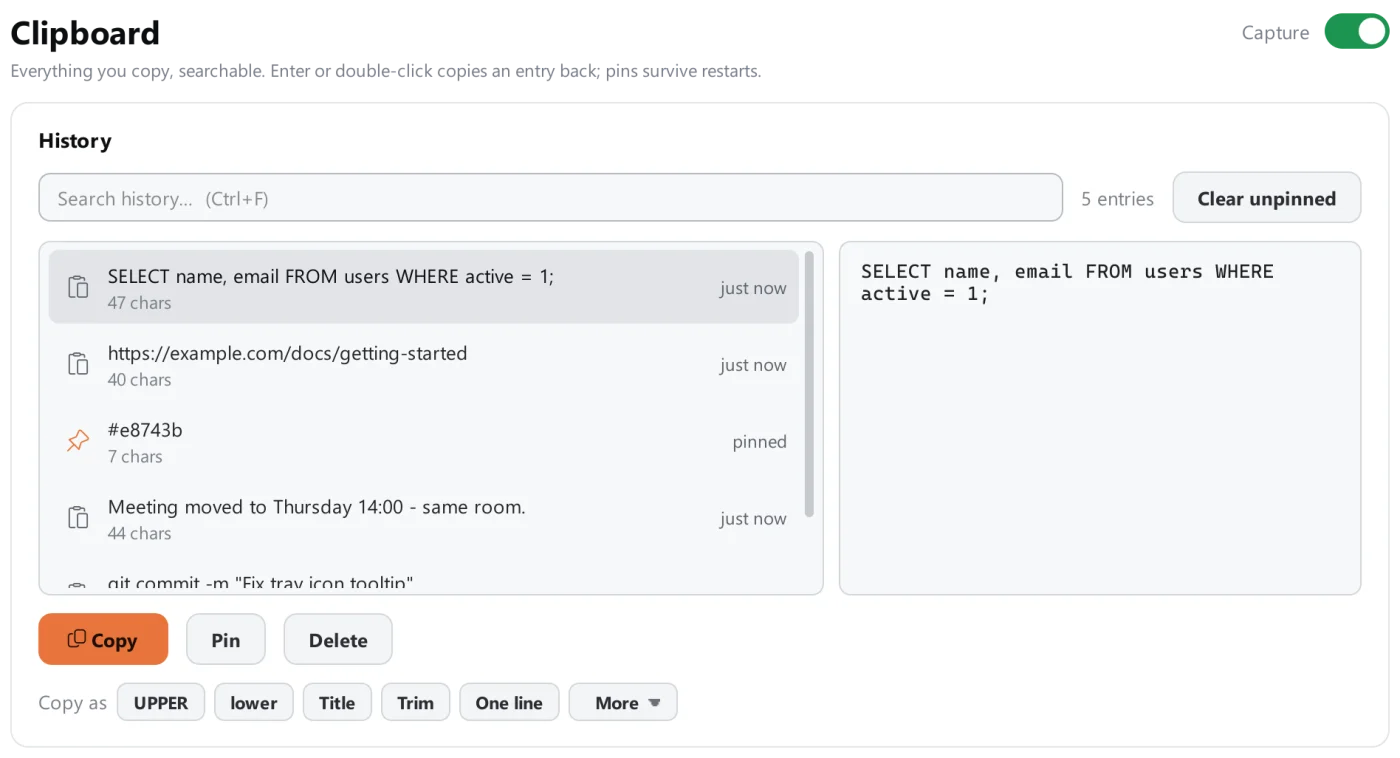
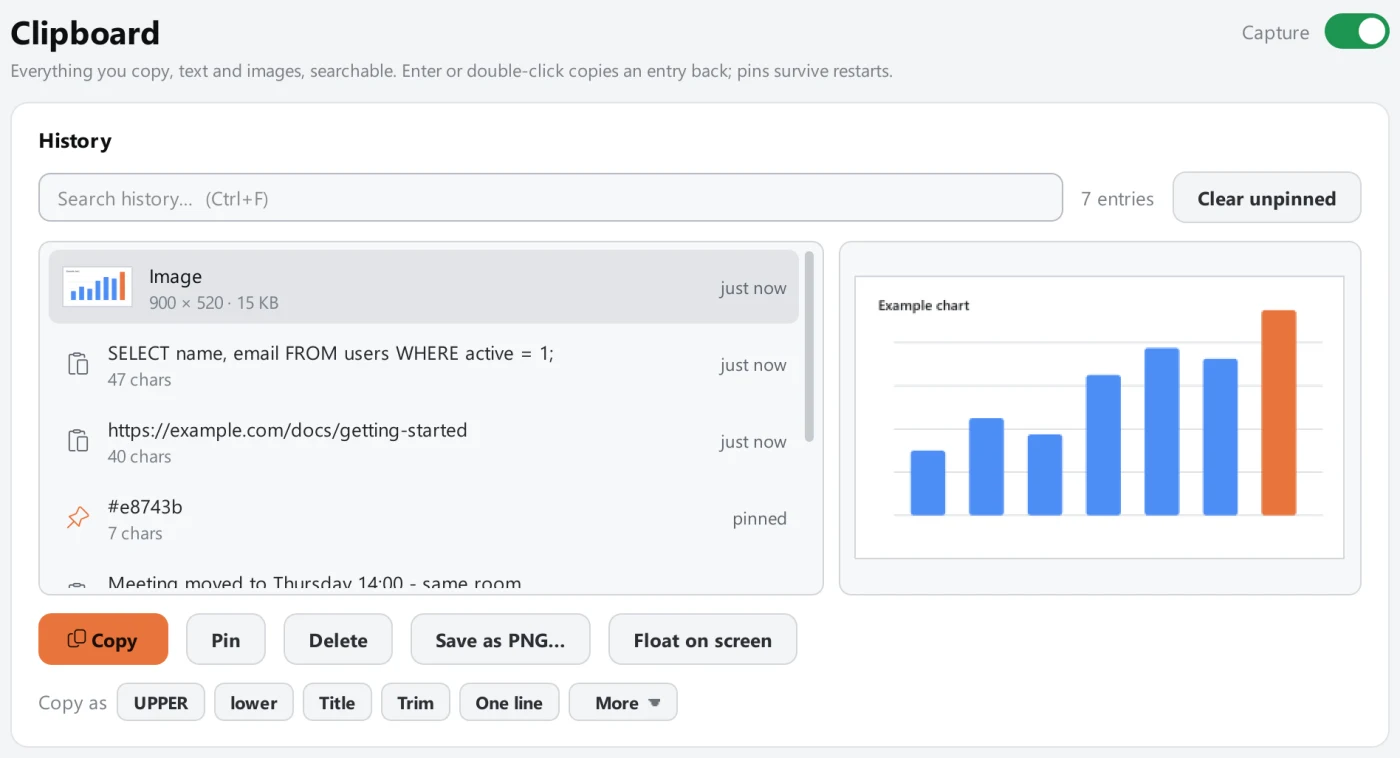
Add Volt 0.8 image history media and privacy details

diff --git a/index.html b/index.html
@@ -73,7 +73,7 @@
           <a class="btn btn-ghost" href="#tools">See every tool</a>
         </div>
         <p class="hero-meta">Windows 10 and 11, 64-bit · about 26 MB · no installer</p>
-        <p class="hero-new">New in 0.8: a light theme and a round of bug fixes. <a href="https://github.com/lljzzz/volt/releases/latest">Release notes</a></p>
+        <p class="hero-new">New in 0.8: images in clipboard history, a light theme and a round of bug fixes. <a href="https://github.com/lljzzz/volt/releases/latest">Release notes</a></p>
       </div>
 
       <div class="hero-visual">
@@ -247,18 +247,19 @@
           <article class="feature flip" id="clipboard" aria-labelledby="t-clipboard">
             <div class="feature-copy">
               <div class="tool-title"><span class="tool-icon"><svg class="icon" aria-hidden="true"><use href="#i-clipboard"/></svg></span><h4 id="t-clipboard">Clipboard history</h4></div>
-              <p class="lede">Everything you copy, searchable, with pins for the things you paste often.</p>
+              <p class="lede">Everything you copy, text and images, searchable, with pins for the things you paste often.</p>
               <ul class="facts">
-                <li>Pins survive restarts. The full history can too, if you want.</li>
+                <li>Pins survive restarts. Optional history saving keeps text and unpinned images up to 12 MB each.</li>
+                <li>Copied images and screenshots show up with thumbnails. Save one as a PNG or float it on top of your other windows.</li>
                 <li>Skips copies that password managers mark as private.</li>
-                <li>Copy any entry as UPPER, camelCase, Base64, pretty JSON and 21 more formats.</li>
+                <li>Copy text as UPPER, camelCase, Base64, pretty JSON and 21 more formats.</li>
               </ul>
               <p class="hotkey-line"><span class="keys"><kbd>Ctrl</kbd><span class="plus">+</span><kbd>Shift</kbd><span class="plus">+</span><kbd>V</kbd></span> pastes as plain text.</p>
             </div>
             <figure class="feature-shot">
               <div class="window shot light"><img src="img/clipboard-light.webp" width="1400" height="758" loading="lazy"
-                alt="Volt's Clipboard page in the light theme, with a searchable history, a pinned color code, a full-text preview and Copy as buttons for UPPER, lower, Title, Trim and One line."></div>
-              <figcaption>The light theme, new in 0.8.</figcaption>
+                alt="Volt's Clipboard page in the light theme, with a copied chart selected and shown in the preview, text entries below it, a pinned color code and buttons to copy, pin, delete, save as PNG or float the image."></div>
+              <figcaption>Image history and the light theme, both new in 0.8.</figcaption>
             </figure>
           </article>
         </div>
@@ -323,7 +324,7 @@
         <p>Volt sees what you copy and type: your clipboard, your notes, snippets with your address in them. None of it ever leaves your computer.</p>
       </div>
       <div class="points">
-        <div class="point"><svg class="icon" aria-hidden="true"><use href="#i-folder"/></svg><h3>Files you can open</h3><p>Everything is saved as plain JSON in <code>%APPDATA%\Volt</code>. Read it, back it up or delete it.</p></div>
+        <div class="point"><svg class="icon" aria-hidden="true"><use href="#i-folder"/></svg><h3>Files you can open</h3><p>Settings and text are saved as JSON in <code>%APPDATA%\Volt</code>. Pinned and remembered images are PNGs. Read, back up or delete your files.</p></div>
         <div class="point"><svg class="icon" aria-hidden="true"><use href="#i-wifi-off"/></svg><h3>Nothing to send it with</h3><p>Volt has no network code. No telemetry, no update checks.</p></div>
         <div class="point"><svg class="icon" aria-hidden="true"><use href="#i-user-x"/></svg><h3>No account</h3><p>Nothing to sign up for, nothing to log in to.</p></div>
         <div class="point"><svg class="icon" aria-hidden="true"><use href="#i-usb"/></svg><h3>Take it with you</h3><p>Put an empty file named <code>portable</code> next to <code>Volt.exe</code> and everything lives in one folder. Great for a USB stick.</p></div>

diff --git a/privacy.html b/privacy.html
@@ -33,7 +33,7 @@
   <div class="wrap">
     <div class="legal-inner">
       <h1>Privacy Policy</h1>
-      <p class="updated">Last updated 7 October 2026</p>
+      <p class="updated">Last updated 15 November 2026</p>
 
       <div class="summary">
         <p>The short version: the Volt app collects nothing and sends nothing. It has no network code, so it cannot. This website uses no cookies, no analytics and no third-party fonts or scripts. The only data involved is what GitHub, which hosts this site and the downloads, logs on their own servers.</p>
@@ -46,8 +46,8 @@
       <p>Volt never connects to the internet. It has no accounts, no telemetry, no crash reporting and no update checks. We do not receive any information about you, your computer or how you use the app.</p>
       <p>Everything Volt stores stays on your computer:</p>
       <ul>
-        <li>Settings, macros, snippets, notes and clipboard pins, saved as plain JSON files in <code>%APPDATA%\Volt</code>, or in the <code>VoltData</code> folder next to <code>Volt.exe</code> when you use portable mode.</li>
-        <li>Clipboard history, kept in memory while Volt runs and saved to the same folder only if you turn on "Remember history across restarts". Volt skips copies that password managers mark as private.</li>
+        <li>Settings, macros, snippets, notes, pinned clipboard text and image metadata, saved as plain JSON files in <code>%APPDATA%\Volt</code>, or in the <code>VoltData</code> folder next to <code>Volt.exe</code> when you use portable mode. Running from source uses the project folder.</li>
+        <li>Clipboard history, including copied images, kept in memory while Volt runs. Pinned images are saved as PNG files in <code>clipboard_images</code> inside the data folder. Turning on "Remember history across restarts" also saves unpinned text and image metadata as JSON and unpinned images up to 12 MB each as PNGs. Larger unpinned images stay in memory only. By default, Volt skips copies that password managers mark as private.</li>
         <li>Screenshots, saved as PNG files in the folder you choose (by default <code>Pictures\Volt</code>).</li>
       </ul>
       <p>You control this data completely. You can read, back up or delete these files at any time. Deleting the folder removes everything Volt has stored. Export files you create are saved wherever you choose and are never sent anywhere.</p>
